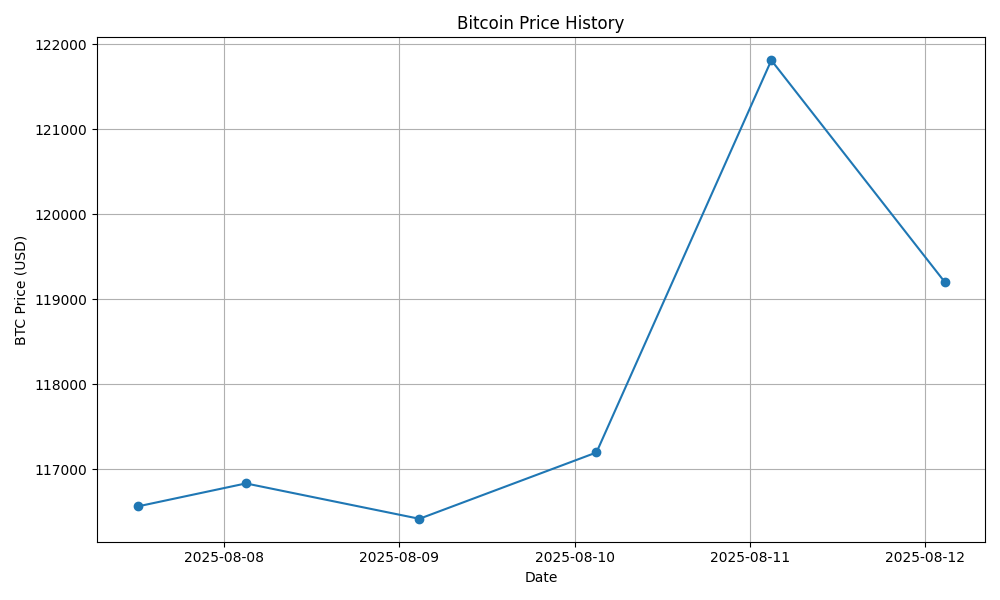
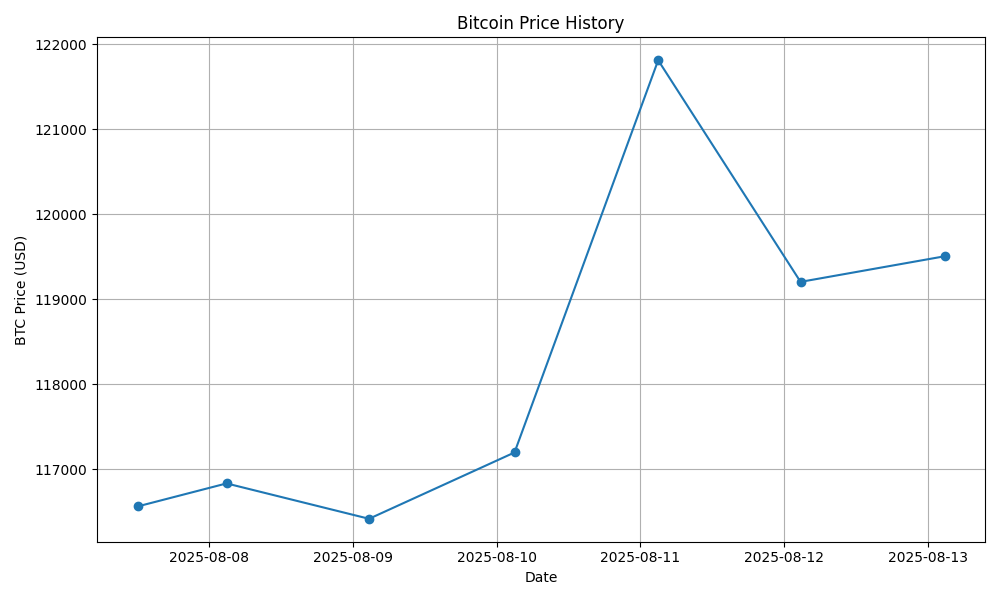
Update: BTC price, chart & README for 2025-08-13

diff --git a/README.md b/README.md
@@ -4,6 +4,6 @@ This project automatically fetches and charts the daily USD price of Bitcoin.
 
 ## Latest Stats
 
-## Latest price (USD): <!--BTC_PRICE-->119206<!--/BTC_PRICE-->
+## Latest price (USD): <!--BTC_PRICE-->119507<!--/BTC_PRICE-->
 
 ![BTC Historical Chart](btc_price_history.png)
